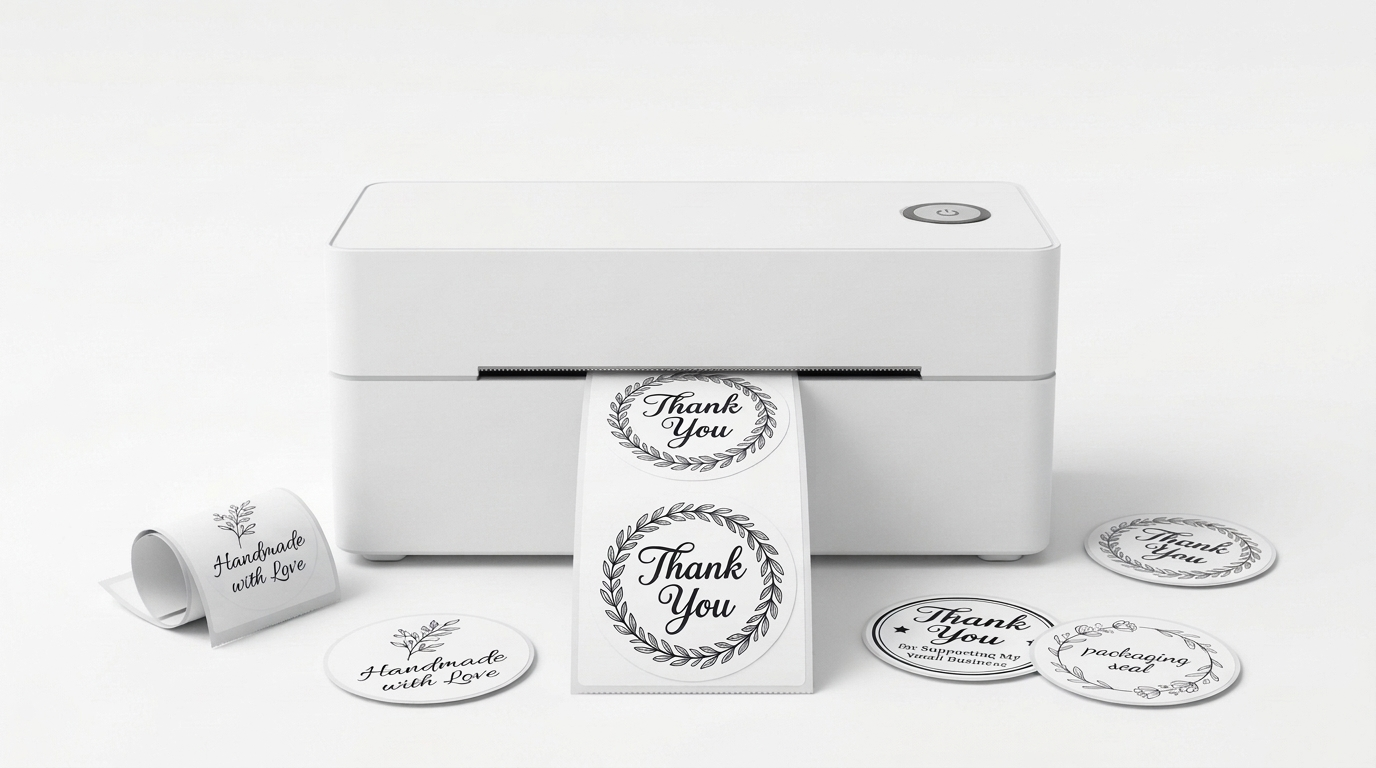
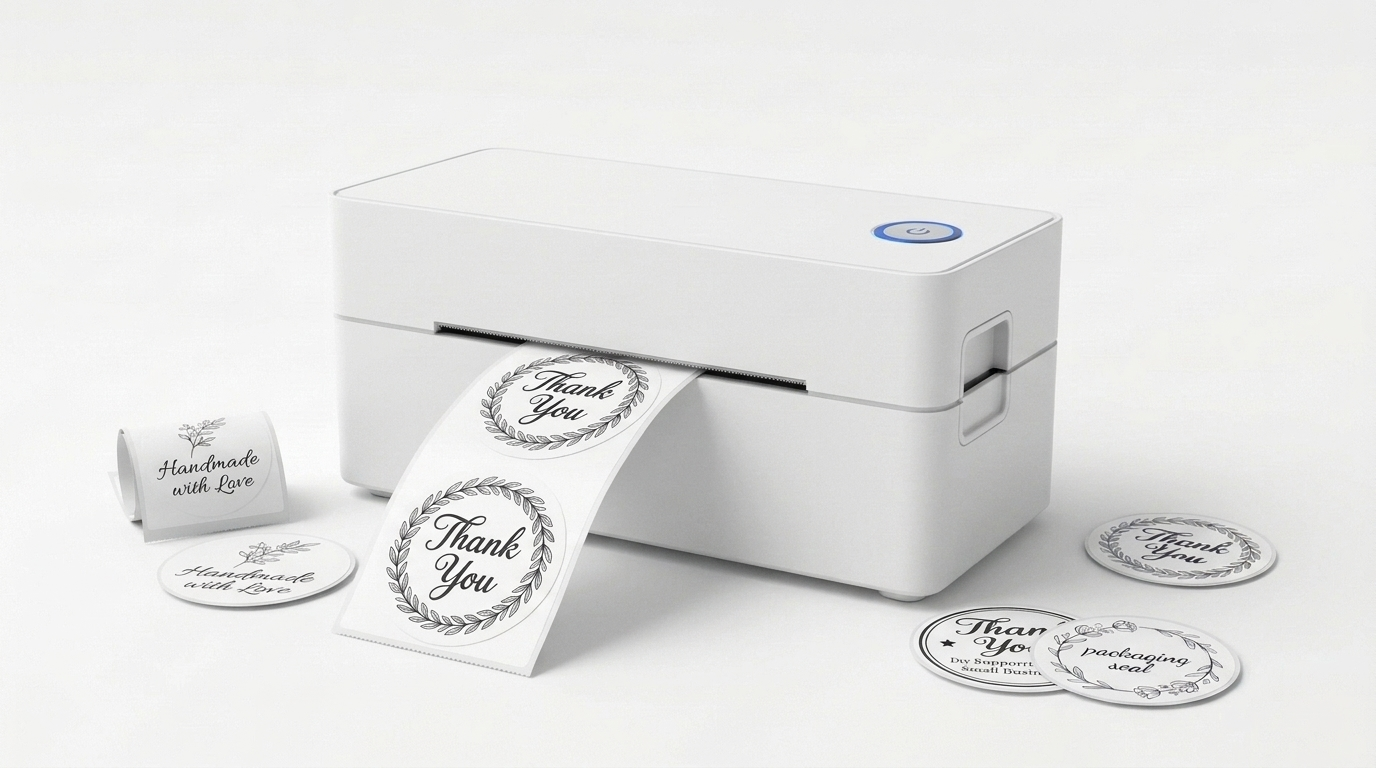
fix(imagery): update Section 4 stickers photo with 3/4 side latch and tabletop resting strip

Changed region(s): [[0.0625, 0.25, 0.9062, 0.9375], [0.25, 0.2188, 0.2812, 0.25]]

diff --git a/src/app/page.tsx b/src/app/page.tsx
@@ -435,7 +435,7 @@ export default function HomePage() {
             }}
           >
             <Image
-              src={config.stickerLifestyleImage || "/bravon-stickers-floor-v2.jpg"}
+              src={config.stickerLifestyleImage || "/bravon-stickers-floor-v3.jpg"}
               alt={`${config.productName || "Bravon POS-9260-L"} Printing Custom Round Stickers and Small Business Packaging Labels with stickers on floor`}
               fill
               style={{ objectFit: "contain", objectPosition: "center", padding: "16px" }}

diff --git a/src/lib/siteConfig.ts b/src/lib/siteConfig.ts
@@ -157,7 +157,7 @@ export const DEFAULT_SITE_CONFIG: SiteConfig = {
   productImageAction: "/bravon-shipping-action-v3.jpg",
   frontFeedImageWhite: "/bravon-hero-studio-white-v2.jpg",
   frontFeedImageDark: "/bravon-hero-studio-dark.jpg",
-  stickerLifestyleImage: "/bravon-stickers-floor-v2.jpg",
+  stickerLifestyleImage: "/bravon-stickers-floor-v3.jpg",
   storeLogoUrl: "/bravon-logo.png",
   storeFaviconUrl: "/bravon-app-icon.png",
   ogImageUrl: "/bravon-desktop-designer.png",
